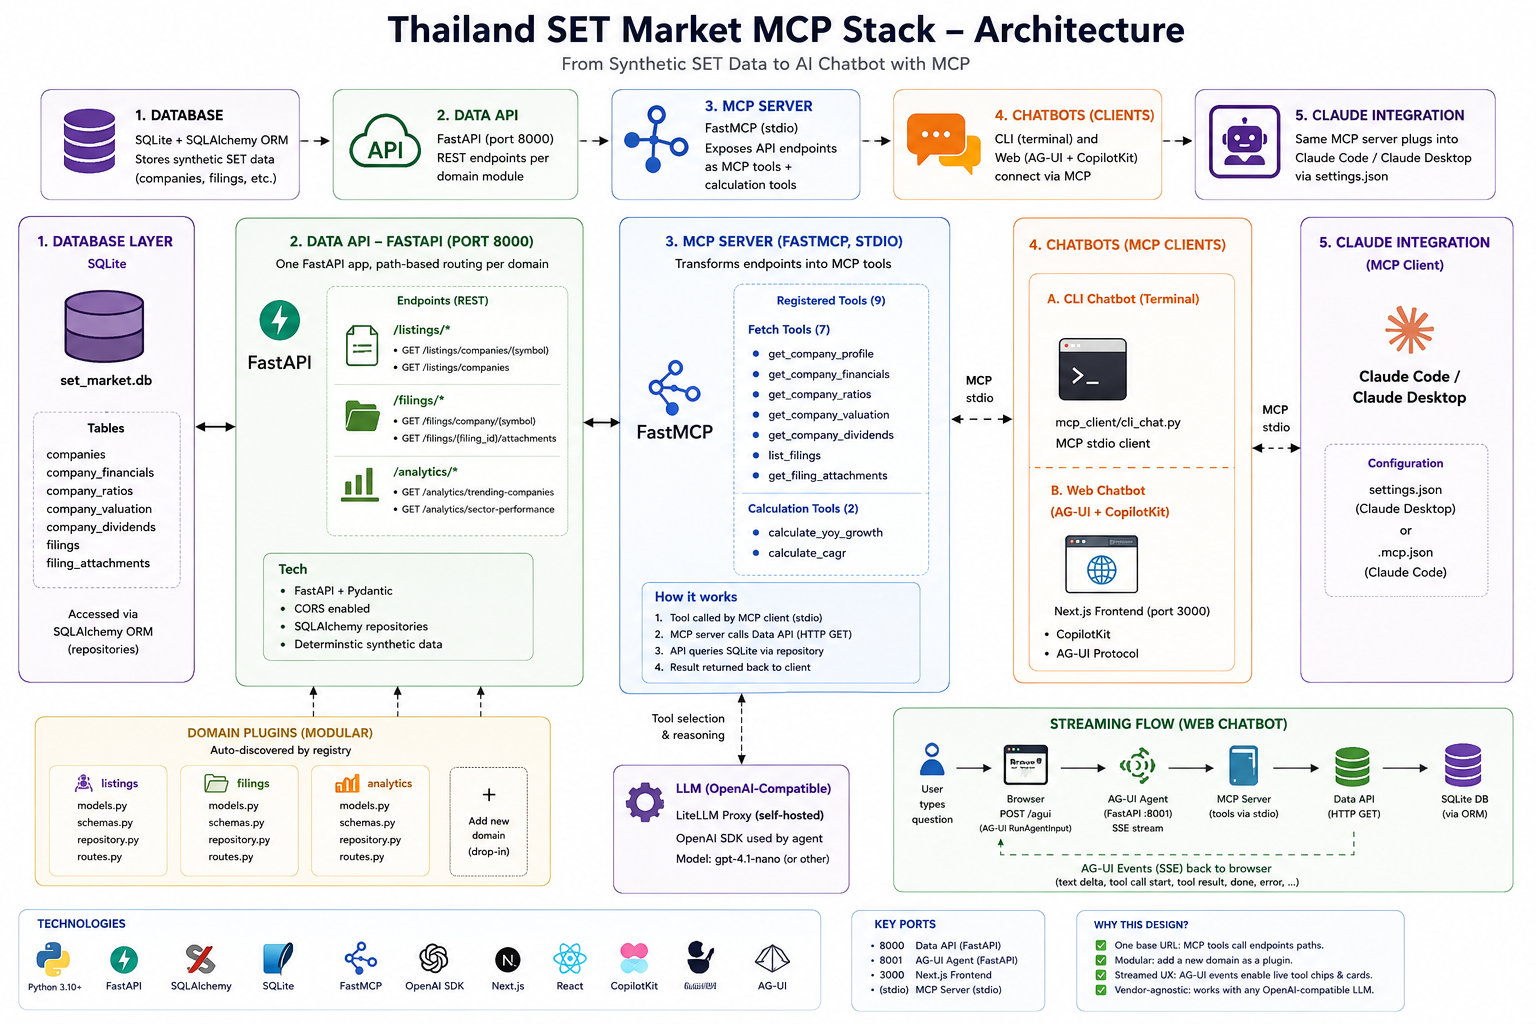
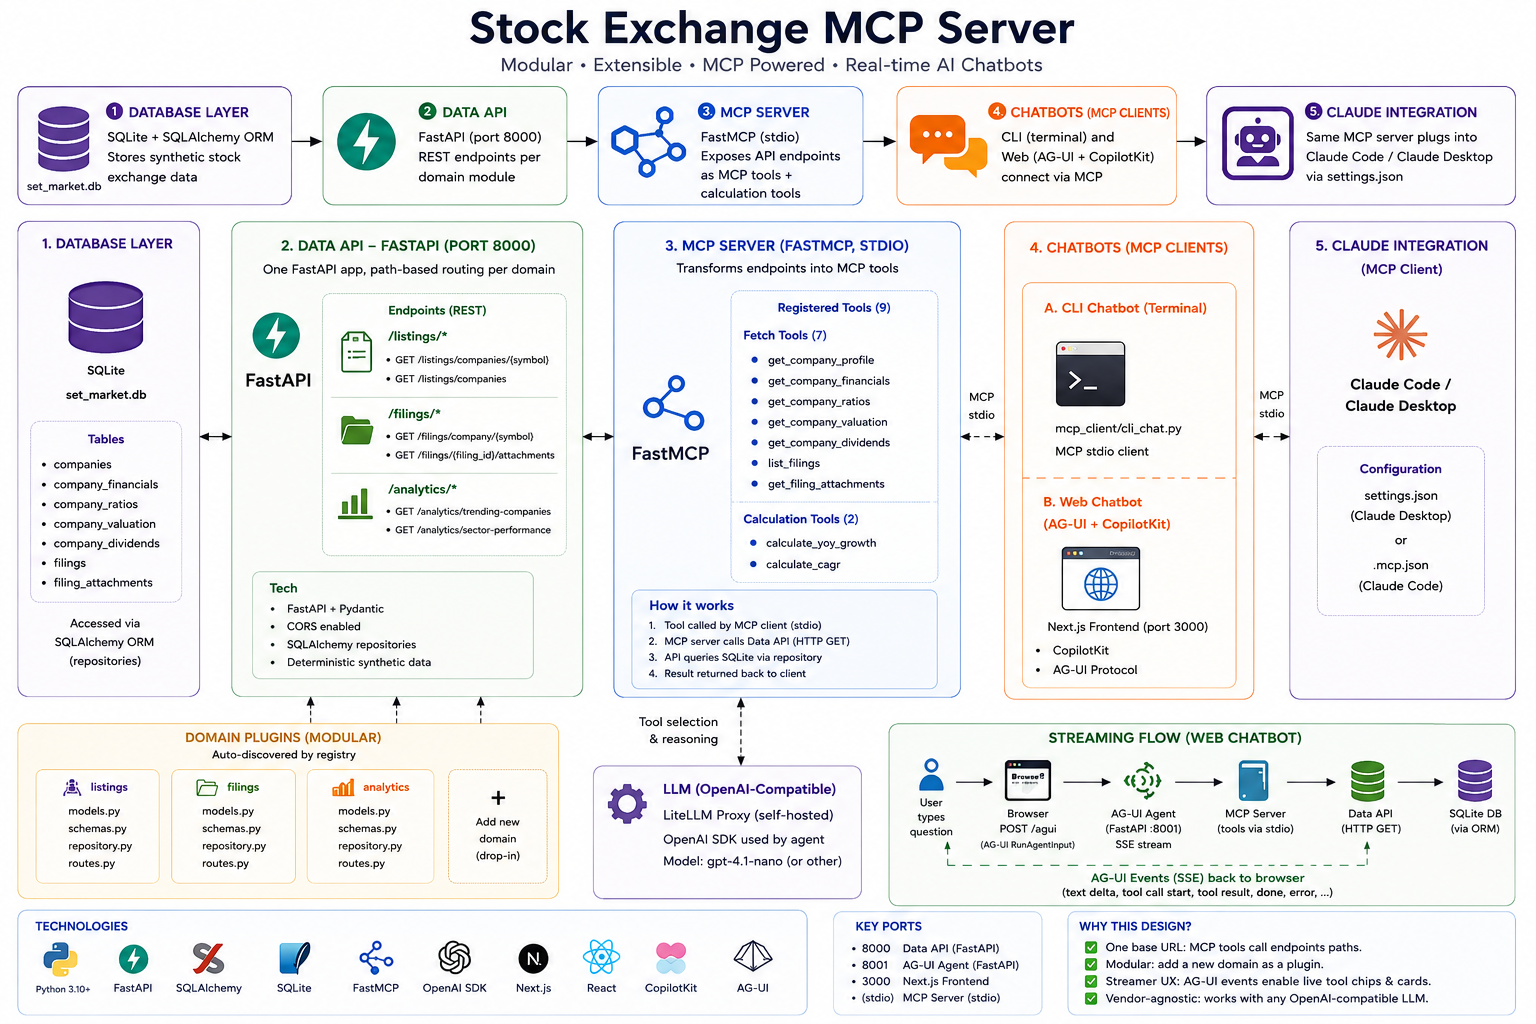
Rebrand to generic Stock Exchange MCP server; regenerate dummy data as US (NYSE/NASDAQ, USD)

diff --git a/frontend/components/cards/TrendChart.tsx b/frontend/components/cards/TrendChart.tsx
@@ -1,6 +1,6 @@
 "use client";
 
-import { Filing, fmtTHB } from "@/lib/types";
+import { Filing, fmtUSD } from "@/lib/types";
 import { Card } from "./Common";
 
 /**
@@ -44,7 +44,7 @@ export function TrendChart({ filings }: { filings: Filing[] }) {
   const gridLines = [0.25, 0.5, 0.75, 1].map((t) => padTop + plotH - t * plotH);
 
   return (
-    <Card title={`${symbol} — Revenue trend`} subtitle={`${n} quarters · THB`} accent="#e08a1e">
+    <Card title={`${symbol} — Revenue trend`} subtitle={`${n} quarters · USD`} accent="#e08a1e">
       <svg viewBox={`0 0 ${W} ${H}`} className="gen-chart" role="img"
            aria-label={`${symbol} quarterly revenue and net profit`}>
         {/* grid */}
@@ -59,7 +59,7 @@ export function TrendChart({ filings }: { filings: Filing[] }) {
             <rect key={f.fiscal_period} x={xCenter(i) - barW / 2} y={by}
                   width={barW} height={padTop + plotH - by}
                   rx="3" fill="#e08a1e" opacity="0.85">
-              <title>{`${f.fiscal_period} revenue: ${fmtTHB(f.revenue)}`}</title>
+              <title>{`${f.fiscal_period} revenue: ${fmtUSD(f.revenue)}`}</title>
             </rect>
           );
         })}
@@ -67,7 +67,7 @@ export function TrendChart({ filings }: { filings: Filing[] }) {
         <polyline points={profitPts} fill="none" stroke="#2f8f5b" strokeWidth="2.5" />
         {q.map((f, i) => (
           <circle key={`p${i}`} cx={xCenter(i)} cy={y(f.net_profit)} r="3.2" fill="#2f8f5b">
-            <title>{`${f.fiscal_period} net profit: ${fmtTHB(f.net_profit)}`}</title>
+            <title>{`${f.fiscal_period} net profit: ${fmtUSD(f.net_profit)}`}</title>
           </circle>
         ))}
         {/* x labels */}

diff --git a/frontend/components/chat/ChatClaude.tsx b/frontend/components/chat/ChatClaude.tsx
@@ -18,10 +18,10 @@ interface Msg {
 }
 
 const SUGGESTIONS = [
-  "Show PTT's company profile",
-  "Compare KBANK, SCB and BBL",
-  "PTTEP financial ratios",
-  "ADVANC revenue trend",
+  "Show AAPL's company profile",
+  "Compare JPM, BAC and WFC",
+  "MSFT financial ratios",
+  "NVDA revenue trend",
   "Top 5 Financials by market cap",
 ];
 
@@ -150,9 +150,9 @@ export function ChatClaude() {
           {empty && (
             <div className="cc__welcome">
               <div className="cc__logo">◆</div>
-              <h2>SET Market Analyst</h2>
+              <h2>Stock Exchange Analyst</h2>
               <p>
-                Ask about companies on the Stock Exchange of Thailand — profiles,
+                Ask about listed companies — profiles,
                 filings, ratios, growth, comparisons and sector rankings.
               </p>
               <div className="cc__suggest">
@@ -210,7 +210,7 @@ export function ChatClaude() {
           <textarea
             className="cc__input"
             value={input}
-            placeholder="Ask about a SET company…"
+            placeholder="Ask about a company…"
             rows={1}
             onChange={(e) => setInput(e.target.value)}
             onKeyDown={(e) => {
@@ -236,7 +236,7 @@ export function ChatClaude() {
           )}
         </div>
         <div className="cc__hint">
-          Streams live · shows tool calls · synthetic SET data
+          Streams live · shows tool calls · synthetic data
         </div>
       </div>
     </div>

diff --git a/frontend/components/cards/CompanyCard.tsx b/frontend/components/cards/CompanyCard.tsx
@@ -1,6 +1,6 @@
 "use client";
 
-import { Company, fmtCompactTHB, fmtNum, fmtPct } from "@/lib/types";
+import { Company, fmtCompactUSD, fmtNum, fmtPct } from "@/lib/types";
 import { Badge, Card, Stat } from "./Common";
 
 export function CompanyCard({ company }: { company: Company }) {
@@ -15,12 +15,12 @@ export function CompanyCard({ company }: { company: Company }) {
         <Badge text={company.is_active ? "Active" : "Suspended"} tone={company.is_active ? "pos" : "neg"} />
       </div>
       <div className="gen-grid">
-        <Stat label="Last price" value={`${fmtNum(company.last_price)} ฿`} />
-        <Stat label="Market cap" value={fmtCompactTHB(company.market_cap)} />
+        <Stat label="Last price" value={`$${fmtNum(company.last_price)}`} />
+        <Stat label="Market cap" value={fmtCompactUSD(company.market_cap)} />
         <Stat label="P/E" value={fmtNum(company.pe_ratio)} />
         <Stat label="P/B" value={fmtNum(company.pb_ratio)} />
         <Stat label="Dividend yield" value={fmtPct(company.dividend_yield)} />
-        <Stat label="Shares out." value={fmtCompactTHB(company.shares_outstanding).replace(" ฿", "")} />
+        <Stat label="Shares out." value={fmtCompactUSD(company.shares_outstanding).replace("$", "")} />
       </div>
     </Card>
   );

diff --git a/frontend/lib/types.ts b/frontend/lib/types.ts
@@ -92,16 +92,16 @@ export function parseResult<T>(result: unknown): T | null {
   return null;
 }
 
-export const fmtTHB = (n: number): string =>
-  new Intl.NumberFormat("en-US", { maximumFractionDigits: 0 }).format(n) + " ฿";
+export const fmtUSD = (n: number): string =>
+  "$" + new Intl.NumberFormat("en-US", { maximumFractionDigits: 0 }).format(n);
 
-// Compact THB for large amounts: 1.74 tn ฿ / 281.78 bn ฿ / 644.00 mn ฿
-export const fmtCompactTHB = (n: number): string => {
+// Compact USD for large amounts: $1.74 tn / $281.78 bn / $644.00 mn
+export const fmtCompactUSD = (n: number): string => {
   const a = Math.abs(n);
-  if (a >= 1e12) return `${(n / 1e12).toFixed(2)} tn ฿`;
-  if (a >= 1e9) return `${(n / 1e9).toFixed(2)} bn ฿`;
-  if (a >= 1e6) return `${(n / 1e6).toFixed(2)} mn ฿`;
-  return new Intl.NumberFormat("en-US", { maximumFractionDigits: 0 }).format(n) + " ฿";
+  if (a >= 1e12) return `$${(n / 1e12).toFixed(2)} tn`;
+  if (a >= 1e9) return `$${(n / 1e9).toFixed(2)} bn`;
+  if (a >= 1e6) return `$${(n / 1e6).toFixed(2)} mn`;
+  return "$" + new Intl.NumberFormat("en-US", { maximumFractionDigits: 0 }).format(n);
 };
 
 export const fmtPct = (n: number | null | undefined): string =>

diff --git a/frontend/components/cards/GrowthCard.tsx b/frontend/components/cards/GrowthCard.tsx
@@ -1,6 +1,6 @@
 "use client";
 
-import { Growth, fmtPct, fmtTHB } from "@/lib/types";
+import { Growth, fmtPct, fmtUSD } from "@/lib/types";
 import { Badge, Card, Stat, pctTone } from "./Common";
 
 export function GrowthCard({ growth }: { growth: Growth }) {
@@ -18,8 +18,8 @@ export function GrowthCard({ growth }: { growth: Growth }) {
       accent="#2f8f5b"
     >
       <div className="gen-grid">
-        <Stat label="Revenue" value={fmtTHB(growth.latest_revenue)} />
-        <Stat label="Net profit" value={fmtTHB(growth.latest_net_profit)} />
+        <Stat label="Revenue" value={fmtUSD(growth.latest_revenue)} />
+        <Stat label="Net profit" value={fmtUSD(growth.latest_net_profit)} />
       </div>
       <div className="gen-row gen-row--wrap">
         <Badge text={`Rev QoQ ${fmtPct(growth.revenue_qoq_pct)}`} tone={pctTone(growth.revenue_qoq_pct)} />

diff --git a/frontend/components/cards/ComparisonTable.tsx b/frontend/components/cards/ComparisonTable.tsx
@@ -1,6 +1,6 @@
 "use client";
 
-import { Comparison, fmtCompactTHB, fmtNum, fmtPct } from "@/lib/types";
+import { Comparison, fmtCompactUSD, fmtNum, fmtPct } from "@/lib/types";
 import { Card } from "./Common";
 
 export function ComparisonTable({ data }: { data: Comparison }) {
@@ -23,7 +23,7 @@ export function ComparisonTable({ data }: { data: Comparison }) {
           {data.companies.map((c) => (
             <tr key={c.symbol}>
               <td className="mono">{c.symbol}</td>
-              <td className="num nowrap">{fmtCompactTHB(c.market_cap)}</td>
+              <td className="num nowrap">{fmtCompactUSD(c.market_cap)}</td>
               <td className="num">{fmtNum(c.pe_ratio)}</td>
               <td className="num">{fmtNum(c.pb_ratio)}</td>
               <td className="num">{fmtPct(c.dividend_yield_pct)}</td>

diff --git a/frontend/components/cards/CompanyListCard.tsx b/frontend/components/cards/CompanyListCard.tsx
@@ -1,6 +1,6 @@
 "use client";
 
-import { Company, fmtCompactTHB, fmtNum } from "@/lib/types";
+import { Company, fmtCompactUSD, fmtNum } from "@/lib/types";
 import { Card } from "./Common";
 
 export function CompanyListCard({ companies }: { companies: Company[] }) {
@@ -24,7 +24,7 @@ export function CompanyListCard({ companies }: { companies: Company[] }) {
                 <td className="gen-ellipsis">{c.company_name}</td>
                 <td className="gen-muted">{c.sector}</td>
                 <td className="num">{fmtNum(c.last_price)}</td>
-                <td className="num nowrap">{fmtCompactTHB(c.market_cap)}</td>
+                <td className="num nowrap">{fmtCompactUSD(c.market_cap)}</td>
               </tr>
             ))}
           </tbody>

diff --git a/frontend/app/page.tsx b/frontend/app/page.tsx
@@ -13,7 +13,7 @@ export default function Home() {
     <main className="app">
       <header className="chat-header">
         <div className="chat-header__brand">
-          <span className="chat-header__mark">SET</span>
+          <span className="chat-header__mark">STK</span>
           <span className="chat-header__name">
             Market Copilot <span>· live tool calls + streaming</span>
           </span>

diff --git a/frontend/app/globals.css b/frontend/app/globals.css
@@ -1,5 +1,5 @@
 /* =========================================================================
-   SET Market Copilot — "Amber Cream Glass" theme
+   Stock Exchange Copilot — "Amber Cream Glass" theme
    Apple-inspired glassmorphism: frosted cream surfaces, amber accents,
    SF Pro typography, warm dark text.
    ========================================================================= */

diff --git a/frontend/app/layout.tsx b/frontend/app/layout.tsx
@@ -2,8 +2,8 @@ import type { Metadata } from "next";
 import "./globals.css";
 
 export const metadata: Metadata = {
-  title: "SET Market Copilot",
-  description: "Streaming AG-UI chatbot for the Thailand SET market",
+  title: "Stock Exchange Copilot",
+  description: "Streaming AG-UI chatbot for a stock exchange",
 };
 
 export default function RootLayout({

diff --git a/backend/modules/listings/seed.py b/backend/modules/listings/seed.py
@@ -1,4 +1,9 @@
-"""Synthetic seed data for the listings module (real SET tickers, fake numbers)."""
+"""Synthetic seed data for the listings module.
+
+Uses a US-style exchange (NYSE / NASDAQ, USD) purely for flavour — every
+financial figure is randomly generated (deterministic via a fixed seed) and is
+NOT real market data.
+"""
 from __future__ import annotations
 
 import random
@@ -13,58 +18,65 @@ fake = Faker()
 
 # (symbol, name, sector, industry, board, price_band, net_margin_band, div_yield_band)
 UNIVERSE: list[tuple] = [
-    ("PTT", "PTT Public Company Limited", "Energy & Utilities", "Resources", "SET", (28, 42), (0.04, 0.09), (3.0, 5.5)),
-    ("PTTEP", "PTT Exploration and Production PCL", "Energy & Utilities", "Resources", "SET", (120, 175), (0.18, 0.30), (3.5, 6.0)),
-    ("GULF", "Gulf Development PCL", "Energy & Utilities", "Resources", "SET", (38, 58), (0.10, 0.18), (1.0, 2.5)),
-    ("EGCO", "Electricity Generating PCL", "Energy & Utilities", "Resources", "SET", (110, 160), (0.08, 0.16), (4.0, 6.5)),
-    ("BGRIM", "B.Grimm Power PCL", "Energy & Utilities", "Resources", "SET", (20, 34), (0.03, 0.08), (1.5, 3.0)),
-    ("RATCH", "Ratch Group PCL", "Energy & Utilities", "Resources", "SET", (28, 42), (0.10, 0.20), (4.5, 6.5)),
-    ("KBANK", "Kasikornbank PCL", "Financials", "Banking", "SET", (120, 165), (0.20, 0.32), (3.0, 5.0)),
-    ("SCB", "SCB X PCL", "Financials", "Banking", "SET", (95, 130), (0.22, 0.34), (4.0, 7.0)),
-    ("BBL", "Bangkok Bank PCL", "Financials", "Banking", "SET", (135, 185), (0.20, 0.30), (3.5, 5.5)),
-    ("KTB", "Krung Thai Bank PCL", "Financials", "Banking", "SET", (16, 24), (0.22, 0.30), (3.5, 5.5)),
-    ("KTC", "Krungthai Card PCL", "Financials", "Finance & Securities", "SET", (40, 58), (0.28, 0.40), (1.5, 3.0)),
-    ("MTC", "Muangthai Capital PCL", "Financials", "Finance & Securities", "SET", (38, 56), (0.25, 0.36), (0.5, 1.5)),
-    ("SAWAD", "Srisawad Corporation PCL", "Financials", "Finance & Securities", "SET", (36, 52), (0.28, 0.40), (2.5, 4.0)),
-    ("CPALL", "CP All PCL", "Services", "Commerce", "SET", (52, 72), (0.03, 0.06), (1.5, 3.0)),
-    ("CPN", "Central Pattana PCL", "Property & Construction", "Property Development", "SET", (55, 78), (0.25, 0.38), (2.0, 3.5)),
-    ("CRC", "Central Retail Corporation PCL", "Services", "Commerce", "SET", (30, 46), (0.03, 0.07), (1.5, 3.0)),
-    ("HMPRO", "Home Product Center PCL", "Services", "Commerce", "SET", (9, 14), (0.07, 0.11), (3.0, 4.5)),
-    ("GLOBAL", "Siam Global House PCL", "Services", "Commerce", "SET", (14, 22), (0.05, 0.09), (1.5, 3.0)),
-    ("ADVANC", "Advanced Info Service PCL", "Technology", "Information & Communication Tech", "SET", (190, 255), (0.14, 0.22), (3.5, 5.0)),
-    ("TRUE", "True Corporation PCL", "Technology", "Information & Communication Tech", "SET", (8, 14), (-0.05, 0.08), (0.0, 2.0)),
-    ("INTUCH", "Intouch Holdings PCL", "Technology", "Information & Communication Tech", "SET", (62, 88), (0.30, 0.45), (4.0, 6.0)),
-    ("DELTA", "Delta Electronics (Thailand) PCL", "Technology", "Electronic Components", "SET", (70, 110), (0.10, 0.16), (0.5, 1.5)),
-    ("KCE", "KCE Electronics PCL", "Technology", "Electronic Components", "SET", (35, 55), (0.10, 0.18), (2.0, 3.5)),
-    ("HANA", "Hana Microelectronics PCL", "Technology", "Electronic Components", "SET", (38, 56), (0.10, 0.17), (3.0, 4.5)),
-    ("CPF", "Charoen Pokphand Foods PCL", "Agro & Food Industry", "Food & Beverage", "SET", (20, 30), (0.01, 0.05), (2.5, 4.5)),
-    ("TU", "Thai Union Group PCL", "Agro & Food Industry", "Food & Beverage", "SET", (13, 20), (0.02, 0.06), (3.5, 5.5)),
-    ("MINT", "Minor International PCL", "Services", "Tourism & Leisure", "SET", (28, 42), (0.04, 0.10), (1.0, 2.5)),
-    ("OSP", "Osotspa PCL", "Agro & Food Industry", "Food & Beverage", "SET", (18, 28), (0.10, 0.16), (3.0, 4.5)),
-    ("CBG", "Carabao Group PCL", "Agro & Food Industry", "Food & Beverage", "SET", (60, 90), (0.12, 0.20), (1.5, 3.0)),
-    ("BDMS", "Bangkok Dusit Medical Services PCL", "Services", "Health Care Services", "SET", (24, 34), (0.14, 0.20), (1.5, 3.0)),
-    ("BH", "Bumrungrad Hospital PCL", "Services", "Health Care Services", "SET", (180, 260), (0.22, 0.32), (2.5, 4.0)),
-    ("SCC", "The Siam Cement PCL", "Property & Construction", "Construction Materials", "SET", (180, 260), (0.05, 0.11), (4.0, 6.5)),
-    ("LH", "Land and Houses PCL", "Property & Construction", "Property Development", "SET", (6, 10), (0.16, 0.26), (5.0, 8.0)),
-    ("AP", "AP (Thailand) PCL", "Property & Construction", "Property Development", "SET", (8, 13), (0.13, 0.20), (4.5, 7.0)),
-    ("AOT", "Airports of Thailand PCL", "Services", "Transportation & Logistics", "SET", (52, 74), (0.20, 0.34), (1.0, 2.5)),
-    ("YGG", "Yggdrazil Group PCL", "Technology", "Digital Content", "mai", (8, 16), (0.08, 0.16), (0.5, 2.0)),
-    ("ZIGA", "Ziga Innovation PCL", "Property & Construction", "Steel & Metals", "mai", (2, 5), (0.05, 0.12), (3.0, 5.0)),
+    # Technology
+    ("AAPL", "Apple Inc.", "Technology", "Consumer Electronics", "NASDAQ", (160, 200), (0.23, 0.27), (0.4, 0.7)),
+    ("MSFT", "Microsoft Corporation", "Technology", "Software", "NASDAQ", (320, 420), (0.33, 0.38), (0.7, 1.0)),
+    ("NVDA", "NVIDIA Corporation", "Technology", "Semiconductors", "NASDAQ", (400, 900), (0.30, 0.50), (0.0, 0.3)),
+    ("ORCL", "Oracle Corporation", "Technology", "Software", "NYSE", (90, 130), (0.18, 0.25), (1.2, 1.8)),
+    ("ADBE", "Adobe Inc.", "Technology", "Software", "NASDAQ", (450, 600), (0.25, 0.30), (0.0, 0.3)),
+    ("CRM", "Salesforce Inc.", "Technology", "Software", "NYSE", (180, 280), (0.05, 0.15), (0.0, 0.6)),
+    ("INTC", "Intel Corporation", "Technology", "Semiconductors", "NASDAQ", (25, 45), (0.05, 0.20), (1.0, 2.5)),
+    # Communication Services
+    ("GOOGL", "Alphabet Inc.", "Communication Services", "Internet Content", "NASDAQ", (120, 160), (0.20, 0.26), (0.0, 0.5)),
+    ("META", "Meta Platforms Inc.", "Communication Services", "Internet Content", "NASDAQ", (250, 400), (0.25, 0.34), (0.0, 0.5)),
+    ("DIS", "The Walt Disney Company", "Communication Services", "Entertainment", "NYSE", (80, 120), (0.05, 0.12), (0.0, 1.0)),
+    ("NFLX", "Netflix Inc.", "Communication Services", "Entertainment", "NASDAQ", (350, 550), (0.15, 0.22), (0.0, 0.3)),
+    ("T", "AT&T Inc.", "Communication Services", "Telecom", "NYSE", (14, 22), (0.10, 0.16), (5.0, 7.0)),
+    ("VZ", "Verizon Communications Inc.", "Communication Services", "Telecom", "NYSE", (30, 45), (0.12, 0.18), (5.5, 7.5)),
+    # Financials
+    ("JPM", "JPMorgan Chase & Co.", "Financials", "Banks", "NYSE", (140, 200), (0.28, 0.34), (2.2, 3.0)),
+    ("BAC", "Bank of America Corporation", "Financials", "Banks", "NYSE", (28, 42), (0.25, 0.30), (2.2, 3.0)),
+    ("WFC", "Wells Fargo & Company", "Financials", "Banks", "NYSE", (40, 60), (0.22, 0.28), (2.0, 3.2)),
+    ("GS", "The Goldman Sachs Group Inc.", "Financials", "Capital Markets", "NYSE", (330, 430), (0.20, 0.28), (2.0, 3.0)),
+    ("MS", "Morgan Stanley", "Financials", "Capital Markets", "NYSE", (80, 110), (0.18, 0.25), (3.0, 4.0)),
+    ("AXP", "American Express Company", "Financials", "Consumer Finance", "NYSE", (150, 230), (0.15, 0.20), (1.0, 1.6)),
+    ("C", "Citigroup Inc.", "Financials", "Banks", "NYSE", (45, 70), (0.15, 0.22), (3.0, 4.2)),
+    # Energy
+    ("XOM", "Exxon Mobil Corporation", "Energy", "Oil & Gas Integrated", "NYSE", (95, 120), (0.08, 0.14), (3.0, 4.0)),
+    ("CVX", "Chevron Corporation", "Energy", "Oil & Gas Integrated", "NYSE", (140, 175), (0.08, 0.13), (3.5, 4.5)),
+    ("COP", "ConocoPhillips", "Energy", "Oil & Gas E&P", "NYSE", (95, 130), (0.15, 0.25), (1.5, 2.5)),
+    ("SLB", "Schlumberger Limited", "Energy", "Oil & Gas Equipment", "NYSE", (40, 60), (0.10, 0.16), (1.8, 2.6)),
+    # Healthcare
+    ("JNJ", "Johnson & Johnson", "Healthcare", "Pharmaceuticals", "NYSE", (150, 180), (0.18, 0.24), (2.7, 3.4)),
+    ("PFE", "Pfizer Inc.", "Healthcare", "Pharmaceuticals", "NYSE", (28, 45), (0.20, 0.30), (3.5, 5.0)),
+    ("UNH", "UnitedHealth Group Incorporated", "Healthcare", "Healthcare Plans", "NYSE", (450, 560), (0.06, 0.09), (1.2, 1.8)),
+    ("ABBV", "AbbVie Inc.", "Healthcare", "Pharmaceuticals", "NYSE", (140, 180), (0.20, 0.28), (3.5, 4.5)),
+    ("MRK", "Merck & Co. Inc.", "Healthcare", "Pharmaceuticals", "NYSE", (100, 130), (0.20, 0.28), (2.4, 3.2)),
+    # Consumer
+    ("WMT", "Walmart Inc.", "Consumer Staples", "Discount Stores", "NYSE", (50, 70), (0.02, 0.04), (1.3, 1.8)),
+    ("KO", "The Coca-Cola Company", "Consumer Staples", "Beverages", "NYSE", (55, 65), (0.22, 0.27), (2.8, 3.4)),
+    ("PEP", "PepsiCo Inc.", "Consumer Staples", "Beverages", "NASDAQ", (160, 190), (0.10, 0.14), (2.6, 3.2)),
+    ("PG", "The Procter & Gamble Company", "Consumer Staples", "Household Products", "NYSE", (140, 165), (0.18, 0.22), (2.3, 2.9)),
+    ("COST", "Costco Wholesale Corporation", "Consumer Staples", "Discount Stores", "NASDAQ", (550, 720), (0.02, 0.04), (0.5, 0.9)),
+    ("MCD", "McDonald's Corporation", "Consumer Discretionary", "Restaurants", "NYSE", (260, 310), (0.30, 0.36), (2.0, 2.6)),
+    ("NKE", "NIKE Inc.", "Consumer Discretionary", "Footwear & Apparel", "NYSE", (90, 130), (0.10, 0.14), (1.0, 1.6)),
+    ("HD", "The Home Depot Inc.", "Consumer Discretionary", "Home Improvement", "NYSE", (290, 360), (0.09, 0.12), (2.2, 2.8)),
+    # Industrials
+    ("BA", "The Boeing Company", "Industrials", "Aerospace & Defense", "NYSE", (180, 240), (-0.05, 0.06), (0.0, 1.0)),
+    ("CAT", "Caterpillar Inc.", "Industrials", "Heavy Machinery", "NYSE", (220, 300), (0.13, 0.18), (1.6, 2.2)),
+    ("GE", "General Electric Company", "Industrials", "Specialty Industrial", "NYSE", (90, 140), (0.05, 0.12), (0.3, 0.8)),
+    ("HON", "Honeywell International Inc.", "Industrials", "Conglomerates", "NASDAQ", (180, 220), (0.14, 0.18), (1.8, 2.4)),
 ]
 
 
 def seed(db) -> None:
-    """Insert companies if none exist. Net-margin band is stashed for filings."""
+    """Insert companies if none exist."""
     if db.scalar(select(Company).limit(1)) is not None:
         return
     for row in UNIVERSE:
         symbol, name, sector, industry, board, price_band, _margin, dy_band = row
         last_price = round(random.uniform(*price_band), 2)
-        shares = (
-            random.randint(150_000_000, 700_000_000)
-            if board == "mai"
-            else random.randint(800_000_000, 9_000_000_000)
-        )
+        shares = random.randint(300_000_000, 16_000_000_000)
         db.add(
             Company(
                 symbol=symbol,
@@ -72,13 +84,13 @@ def seed(db) -> None:
                 sector=sector,
                 industry=industry,
                 market=board,
-                listing_date=fake.date_between(date(1995, 1, 1), date(2018, 12, 31)),
-                par_value=round(random.choice([0.5, 1.0, 1.0, 5.0]), 2),
+                listing_date=fake.date_between(date(1970, 1, 1), date(2015, 12, 31)),
+                par_value=round(random.choice([0.01, 0.001, 0.1, 1.0]), 3),
                 shares_outstanding=shares,
                 last_price=last_price,
                 market_cap=round(last_price * shares, 2),
-                pe_ratio=round(random.uniform(8, 28), 2),
-                pb_ratio=round(random.uniform(0.7, 4.5), 2),
+                pe_ratio=round(random.uniform(8, 40), 2),
+                pb_ratio=round(random.uniform(0.7, 12.0), 2),
                 dividend_yield=round(random.uniform(*dy_band), 2),
                 is_active=True,
             )

diff --git a/backend/mcp_client/cli_chat.py b/backend/mcp_client/cli_chat.py
@@ -19,10 +19,10 @@ from core.config import settings
 from mcp_client.session import MCPToolClient
 
 SYSTEM_PROMPT = (
-    "You are a Thailand SET market analyst assistant. "
+    "You are a stock-exchange market analyst assistant. "
     "Use the provided tools to fetch company listings and filings and to run "
     "financial calculations. Only state numbers returned by the tools — never "
-    "invent figures. All monetary values are in Thai Baht (THB). "
+    "invent figures. All monetary values are in US dollars (USD). "
     "Present results clearly and concisely."
 )
 MAX_TOOL_ROUNDS = 6
@@ -81,7 +81,7 @@ async def run_turn(
 
 
 async def main() -> None:
-    # Windows consoles default to cp1252 and choke on ฿ (THB) etc.
+    # Windows consoles default to cp1252 and choke on non-ASCII characters etc.
     try:
         sys.stdout.reconfigure(encoding="utf-8")
     except (AttributeError, ValueError):
@@ -97,7 +97,7 @@ async def main() -> None:
     await client.connect()
     print(f"Connected to MCP server. Tools: {', '.join(client.tool_names)}")
     print(f"Model: {settings.llm_model}")
-    print("Ask about SET companies (type 'exit' to quit).\n")
+    print("Ask about companies (type 'exit' to quit).\n")
 
     tools = client.openai_tools()
     messages: list[dict] = [{"role": "system", "content": SYSTEM_PROMPT}]
